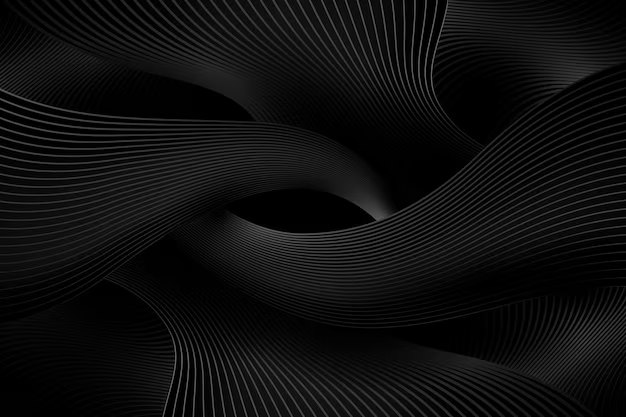
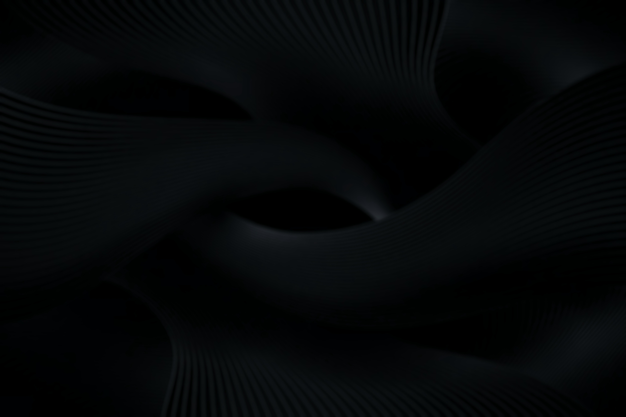
updates

diff --git a/src/data/events.js b/src/data/events.js
@@ -2,7 +2,7 @@ export const events = [
   {
     image: "/posters/bluster.webp",
     eventId: "bluster",
-    event_name: "The Bluster",
+    event_name: "The Blusters",
     event_description:
       "Step up to the challenge in our Competitive Programming Contest! Tackle a series of algorithmic puzzles designed to test your coding skills and problem-solving prowess. Compete against the best, sharpen your abilities, and vie for top honors and prizes. Whether you're a beginner or a seasoned coder, this competition is the perfect arena to prove your mettle! Join us and code your path to victory!",
     rules: [
@@ -32,7 +32,7 @@ export const events = [
   {
     image: "/posters/architect.webp",
     eventId: "the-architect",
-    event_name: "The Architect (Prototype Competition)",
+    event_name: "The Architects (Prototype Competition)",
     eventType: "Team (5 members max)",
     event_description:
       "Join The Architect, a hardware prototype competition! Showcase innovation and engineering skills to solve real-world challenges. Compete in robotics, IoT, or unique systems. Gain recognition and prizes! Themes: IoT, Robotics, AI, Food & Beverages, Renewable Energy, Waste Management, Healthcare & Biotech, Green Tech.",

diff --git a/src/index.css b/src/index.css
@@ -38,7 +38,6 @@ body {
   color: white;
   overflow-x: hidden;
   background-image: url("/background.webp");
-  backdrop-filter: blur(10px);
 
   background-repeat: no-repeat;
   background-size: 100% 100%;
